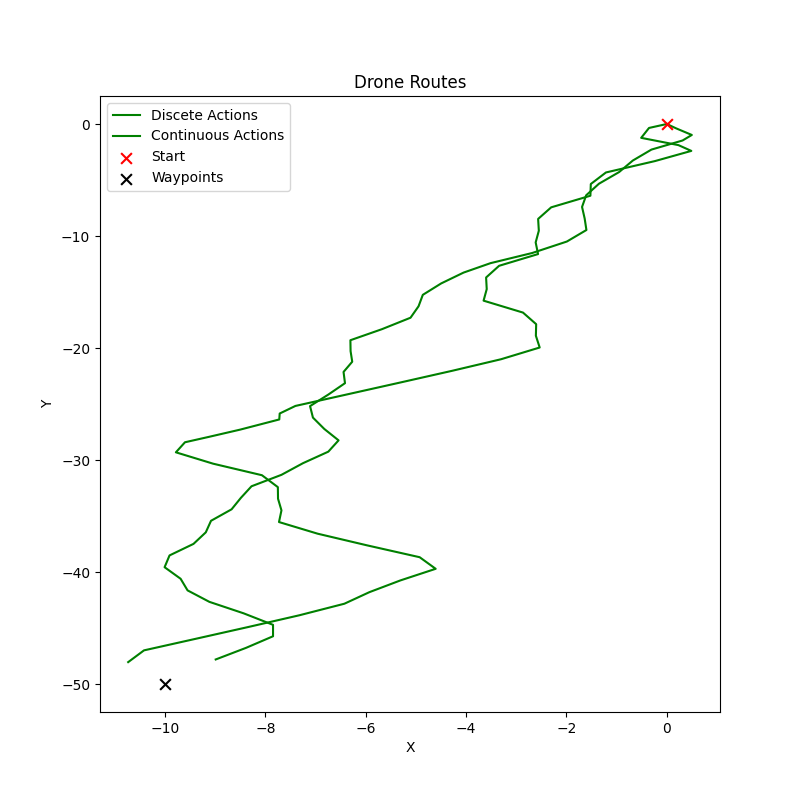
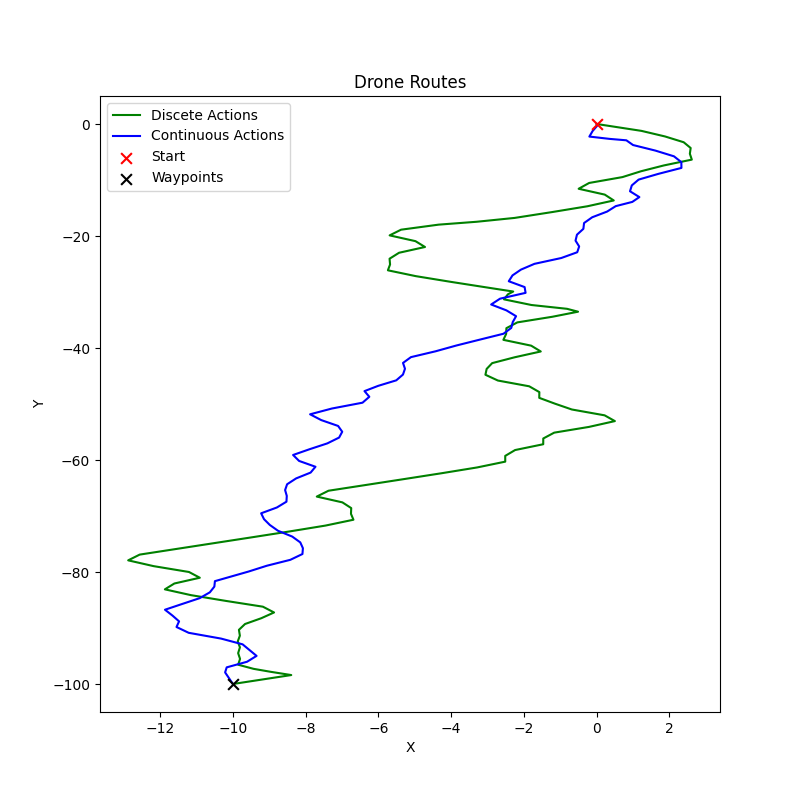
Single UAV Exp: single, PPO, Cont

diff --git a/UAVNavigation/single_uav_experiment.py b/UAVNavigation/single_uav_experiment.py
@@ -21,7 +21,7 @@ waypoint_variants = dict()
 
 waypoint_variants["single"] = [
     np.array([0.0, 0.0, 5.0], dtype=np.float32),
-    np.array([-10.0, -50.0, 5.0], dtype=np.float32)
+    np.array([-10.0, -100.0, 5.0], dtype=np.float32)
 ]
 
 waypoint_variants["multiple"] = [
@@ -111,6 +111,8 @@ for env_type in env_types:
     print(f"Shortest route length: {min(route_lengths)}")
     shortest_index = route_lengths.index(min(route_lengths))
     shortest_route = route_list[shortest_index]
+    
+    shortest_route.append(waypoint_variants[waypoint_variant][-1])
 
     shortest_routes[env_type] = shortest_route
     

diff --git a/UAVNavigation/utils.py b/UAVNavigation/utils.py
@@ -296,7 +296,7 @@ def plot_route_exp(targets, drone_paths, obstacles=[], filename=None):
     cont_path = drone_paths["cont"]
     if len(cont_path) > 0:
         cont_route = np.array(cont_path)
-        plt.plot(cont_route[:, 0], cont_route[:, 1], c="green", zorder=2, label="Continuous Actions")
+        plt.plot(cont_route[:, 0], cont_route[:, 1], c="blue", zorder=2, label="Continuous Actions")
 
     np_targets = np.array(targets)
     start, np_targets = pop_first_element(np_targets)
